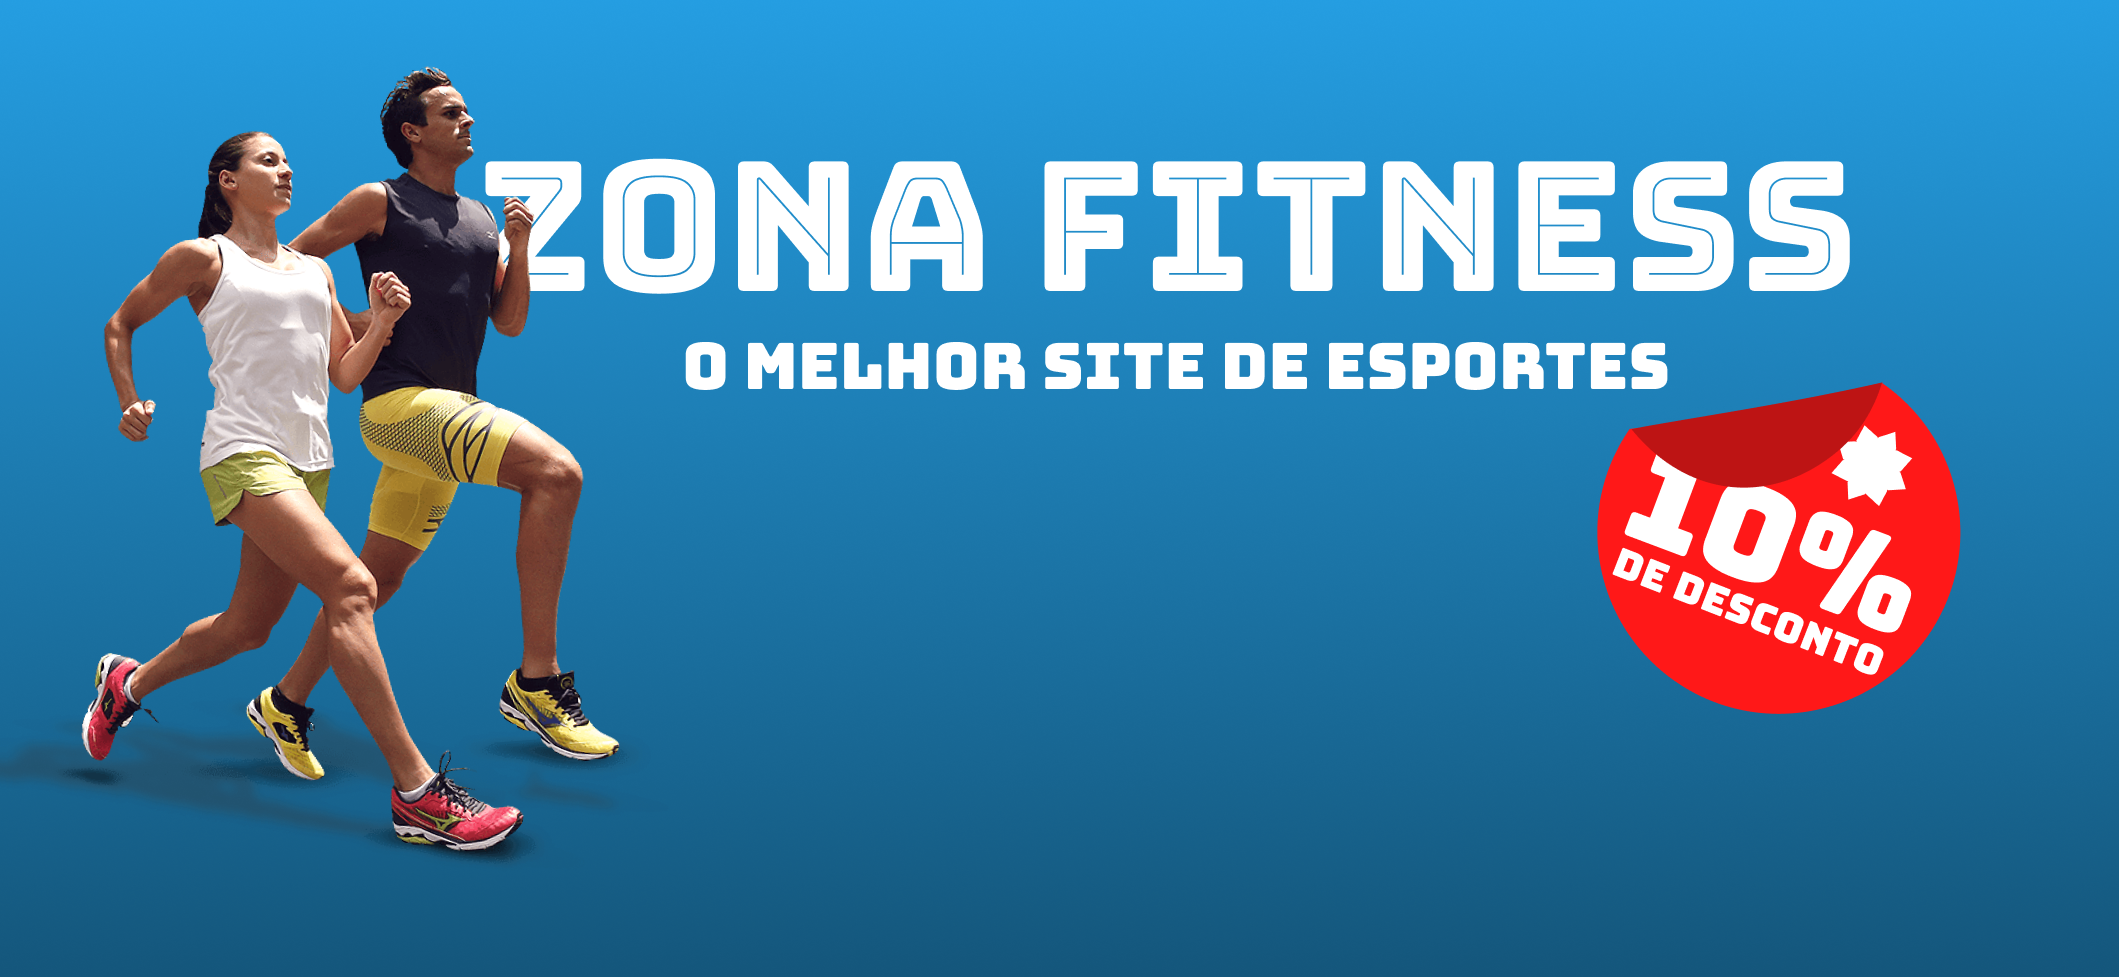
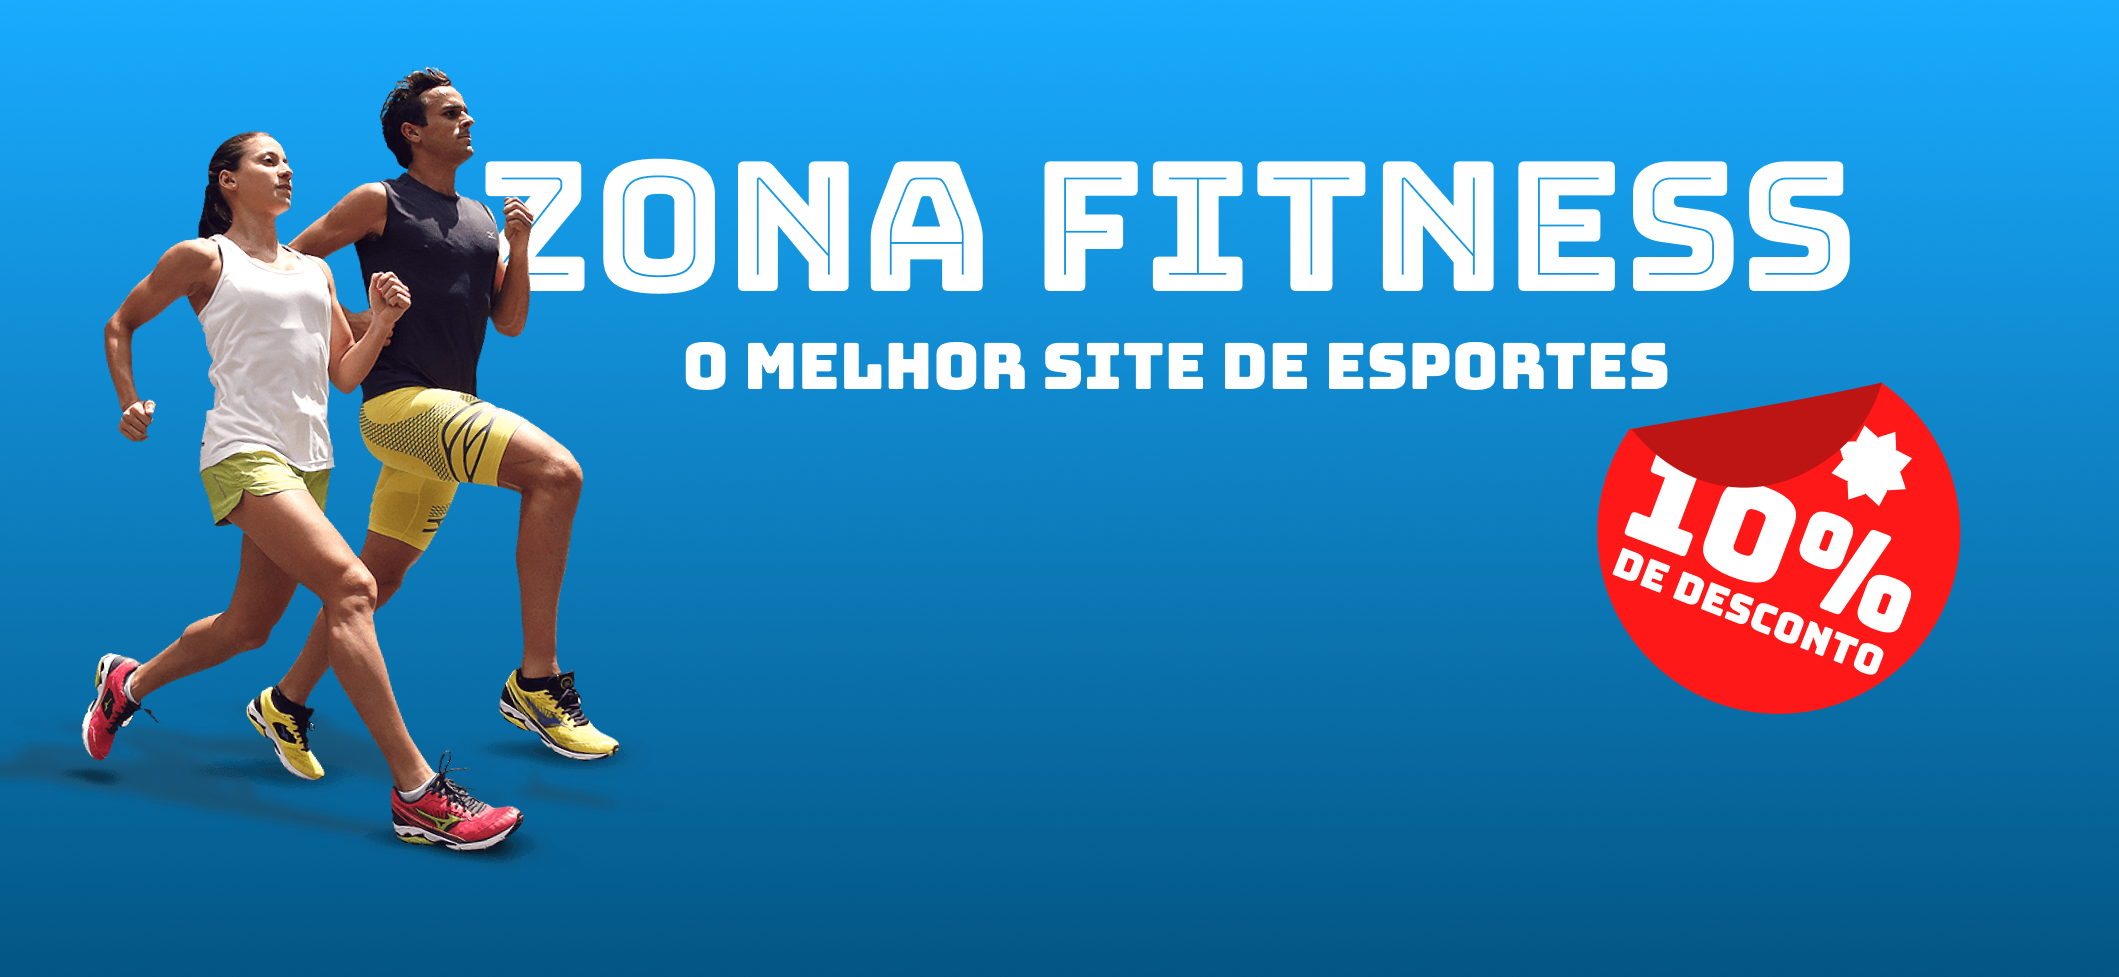
limpando pastas vite

Changed region(s): [[0.0, 0.0, 1.0, 0.2764]]

diff --git a/src/routes/Login.jsx b/src/routes/Login.jsx
@@ -1,6 +1,9 @@
 import {useRef} from 'react'
 import Cliente from '../components/Cliente';
 
+import { LoginStyle } from "../css/LoginStyle";
+
+
 const Login =()=>{
 
     const usuario=useRef();
@@ -36,7 +39,7 @@ const Login =()=>{
                 <Cliente/>
             ):
                 <form onSubmit={handleLogin}>
-                    <p>
+                    <p className='p'>
                         Usuário:
                         <input type="text" placeholder="Digite seu usuário" ref={usuario} />
                     </p>

diff --git a/src/css/FooterStyle.jsx b/src/css/FooterStyle.jsx
@@ -4,7 +4,7 @@ export const FooterStyle =styled.section`
 
     h5{
         text-align: center;
-        background-color: #747474;
+        background-color: #034b6d;
         margin-top: -4px;
         padding-top: 3px;
         padding-bottom: 3px;

diff --git a/src/css/NavStyle.jsx b/src/css/NavStyle.jsx
@@ -4,7 +4,7 @@ export const NavStyle = styled.header `
 
 .nav{
     grid-area:nav;
-    background:#259DE1;
+    background:#19abff;
 }
 
 .nav .container{

diff --git a/src/css/LoginStyle.jsx b/src/css/LoginStyle.jsx
@@ -1,0 +1,8 @@
+import styled from "styled-components";
+
+export const LoginStyle =styled.section`
+
+    .p{
+        background-color: aqua;
+    }
+`

diff --git a/README.md b/README.md
@@ -5,9 +5,9 @@
 
 ## Grupo Data Sphere
 Nosso grupo é composto pelos integrantes:
-Artur Alves - RM 555171
-Giuliana Lucas - RM 557597
-Ian Monteiro - RM 558652
-Igor Brunelli - RM 555035
-Matheus Alcântara - RM 558193
+-  <a href="https://www.linkedin.com/in/artur-alves-tenca-b1ba862b6/">Artur Alves</a> - RM 555171 
+- <a href="https://www.linkedin.com/in/giuliana-lucas-85b4532b6/">Giuliana Lucas</a> - RM 557597
+- <a href="https://www.linkedin.com/in/ian-monteiro-moreira-a4543a2b7/">Ian Monteiro</a> - RM 558652 
+- <a href="https://www.linkedin.com/in/igor-brunelli-ralo-39143a2b7/">Igor Brunelli</a> - RM 555035
+- <a href="https://www.linkedin.com/in/matheus-estev%C3%A3o-5248b9238/">Matheus Alcântara</a> - RM 558193
 
